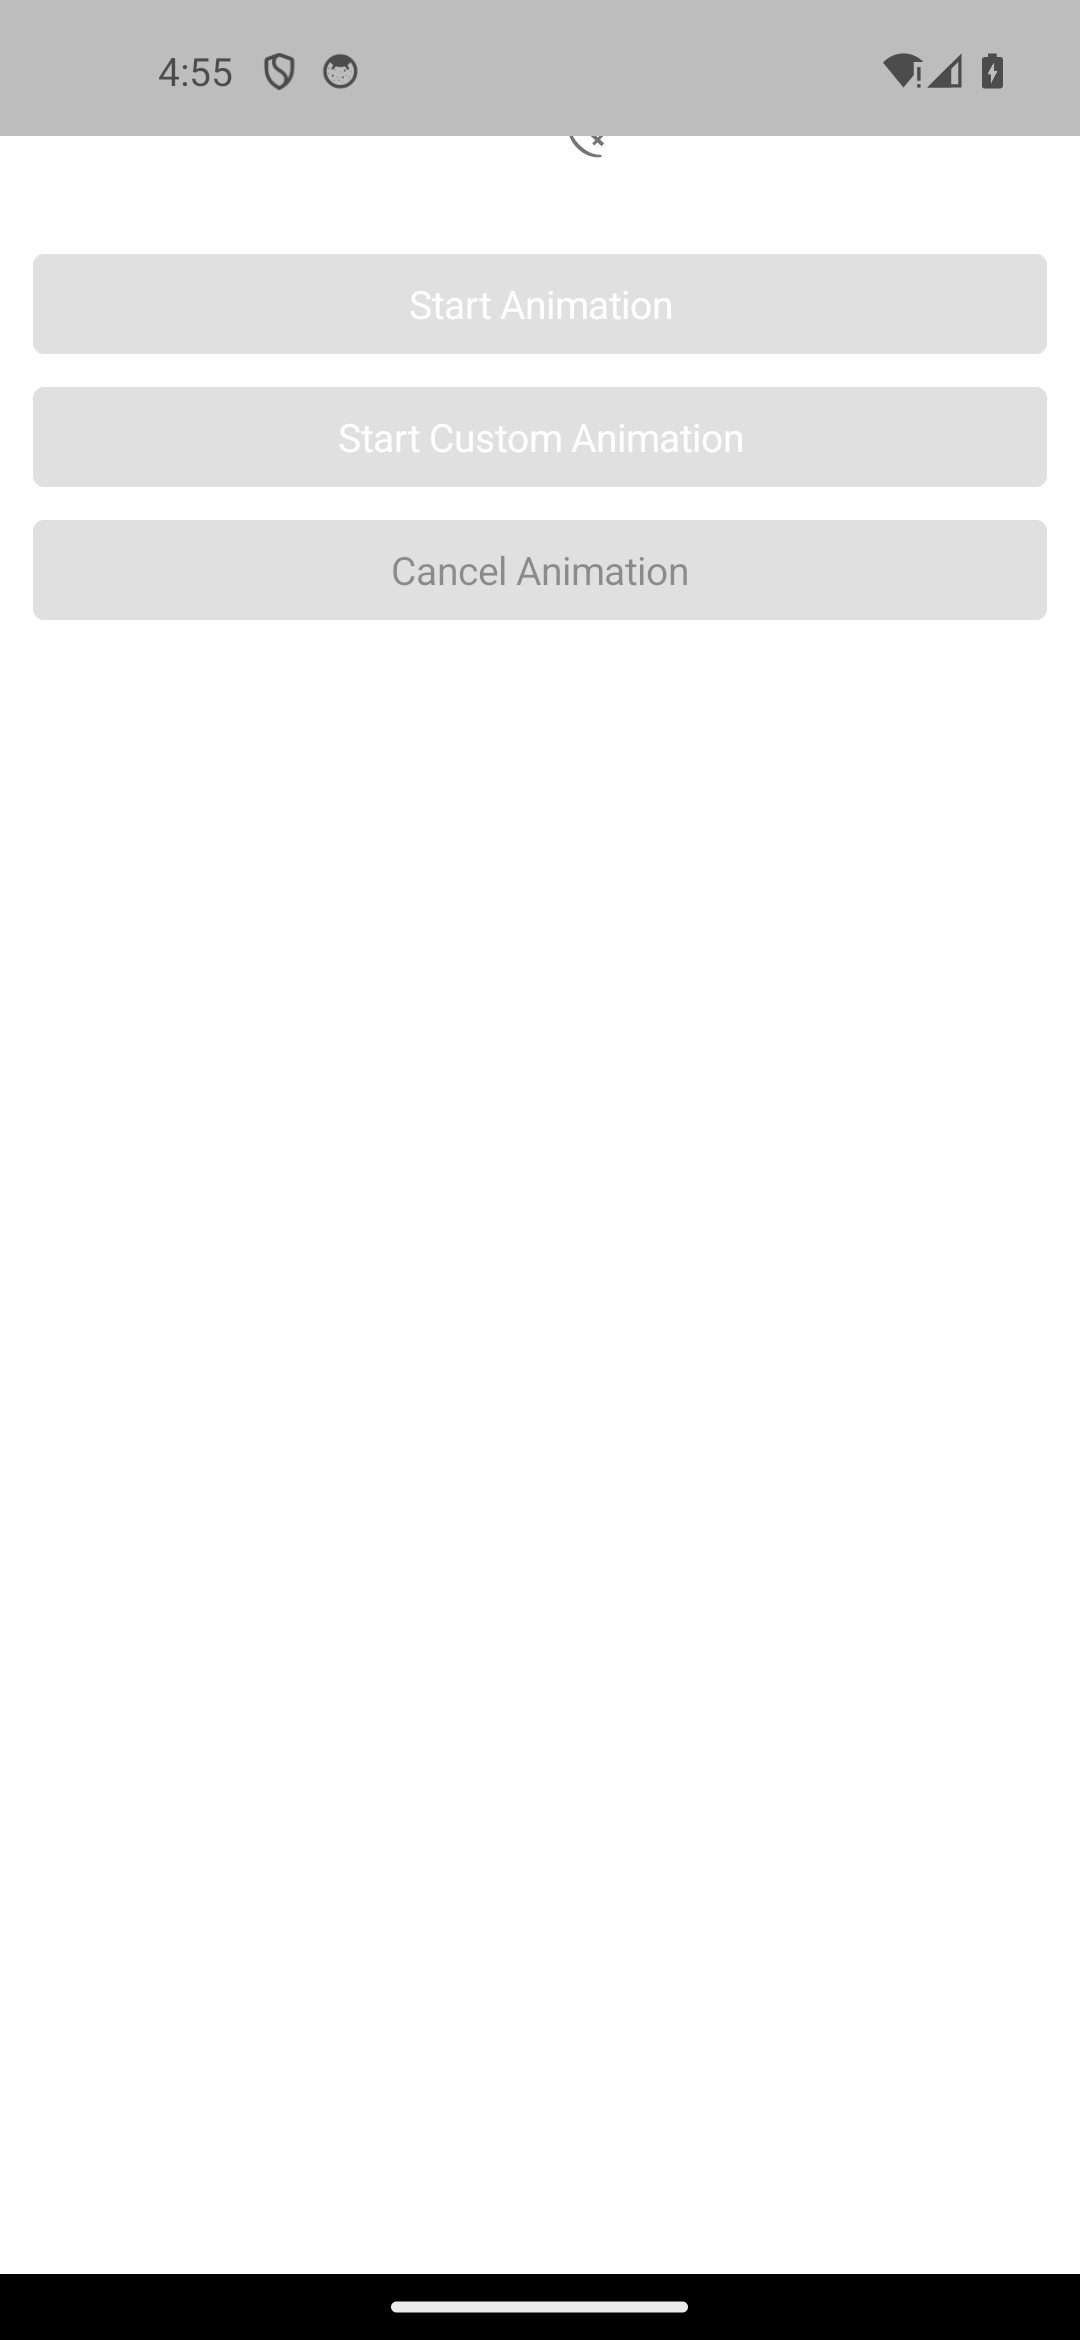
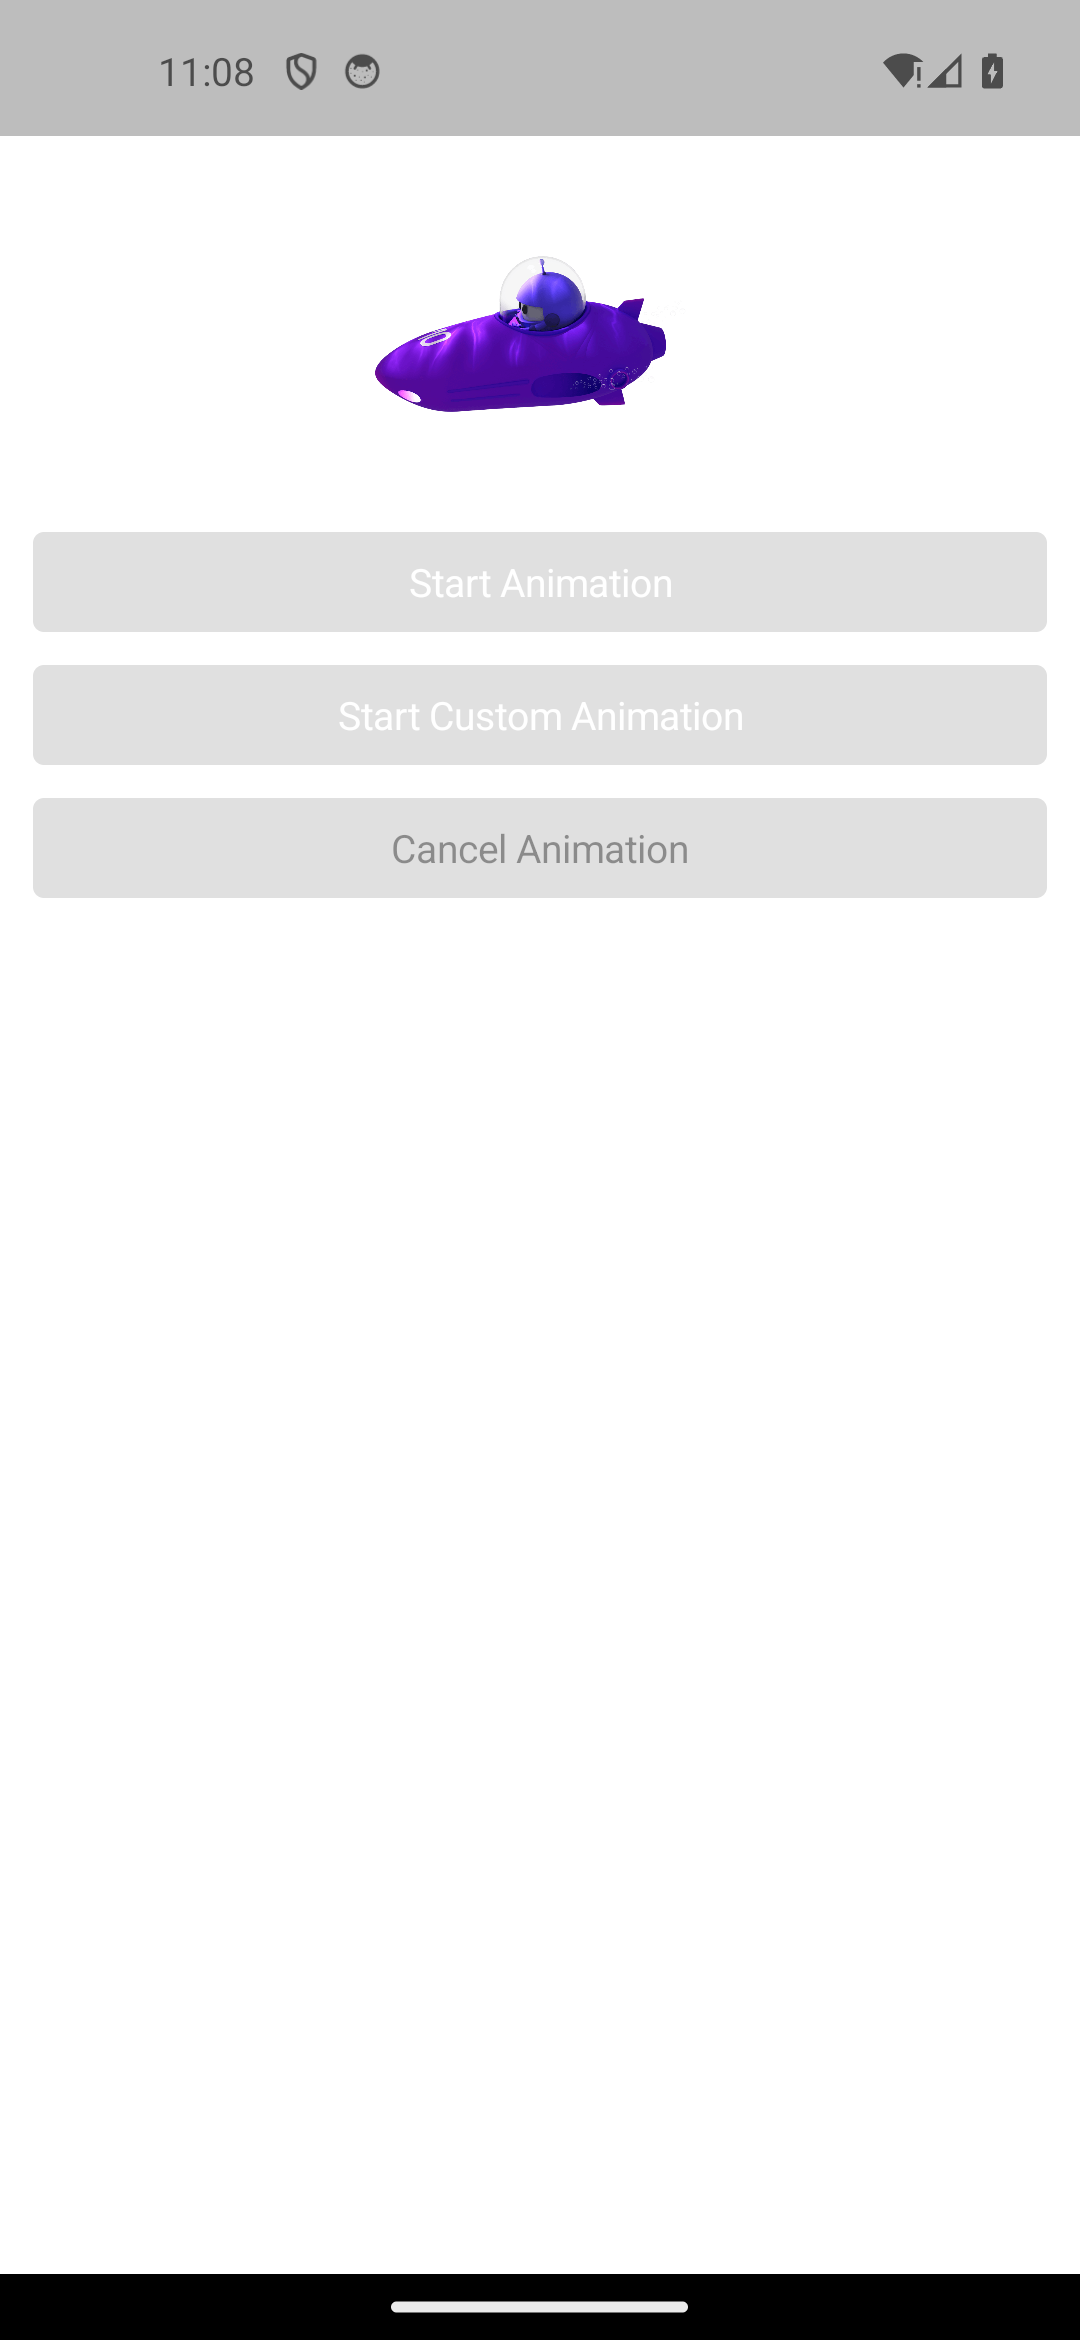
docs(parity): fix 3 android maui-ref divergences + recapture → 3 greens
The maui-compare REFERENCE app (fills android/maui/*.png) had diverged from real
.NET MAUI on 3 pages; the C++ port was already faithful. Fixed the reference,
rebuilt for net10.0-android, reinstalled, and recaptured only these 3:

  - clip_corner_radius: dotnet_bot.png(submarine) → oasis.jpg(pug dog), per
    ClipCornerRadiusGallery.xaml
  - scroll_mode_test: 3 mode buttons → EnumSelector = Label + Picker{WidthRequest=200}
    single value, per CollectionViewGalleries/EnumSelector.cs
  - animation: Label stand-in → <Image dotnet_bot.png> static at rest (no on-load
    animation kick), per AnimationPage.xaml

Recaptured PNGs READ-verified to match both real MAUI and the port's android/cpp
column. Board: android_render_review.json flips these 3 yellow→green (122 match /
31 minor / 18 major) and README re-spliced. maui-compare edits live in ~/maui-compare
(user's comparison app). Leaves the concurrent android/cpp recapture untouched.

Changed region(s): [[0.0306, 0.0936, 0.9778, 0.4056], [0.2444, 0.0, 0.3361, 0.0624], [0.1528, 0.0, 0.2139, 0.0312]]

diff --git a/port/cpp/docs/comparison/README.md b/port/cpp/docs/comparison/README.md
@@ -443,8 +443,8 @@ The C++ port's gallery pages rendered by the **Android app host** (a real Activi
 
 | Classification | Count | Meaning |
 | --- | --- | --- |
-| 🟢 Match | 119 | the port matches MAUI's content (colors/sizes/spacing/text) — pixel-perfect or effectively identical |
-| 🟡 Minor diff | 34 | small content differences that don't change the page's substance |
+| 🟢 Match | 122 | the port matches MAUI's content (colors/sizes/spacing/text) — pixel-perfect or effectively identical |
+| 🟡 Minor diff | 31 | small content differences that don't change the page's substance |
 | 🔴 Major diff | 19 | the port differs substantially from MAUI (missing controls/images/effects, wrong layout) |
 | ⬛ Port blank | 0 | the port's page is blank/crashed while MAUI shows content |
 
@@ -465,7 +465,7 @@ The per-row **Sonnet 5** column gives each page's MAUI-vs-C++ parity verdict + t
 | 3 | **Adaptive Collection** | <table><tr><td align="center">MAUI<br><img src="android/maui/adaptive_collection.png" height="360"></td><td align="center">C++<br><img src="android/cpp/adaptive_collection.png" height="360"></td><td align="center">C++&amp;XAML<br><img src="_placeholder.png" height="360"></td></tr></table> | ports AdaptiveCollectionView.xaml (+ .xaml.cs) (Maui.Controls.Sample.Pages.CollectionViewGalleries.AdaptiveCollectionView) | 🟢 renders — matches MAUI: item list layout, spacing, text all identical | _pending — Android vision review not run yet_ |
 | 4 | **Alerts** | <table><tr><td align="center">MAUI<br><img src="android/maui/alerts.png" height="360"></td><td align="center">C++<br><img src="android/cpp/alerts.png" height="360"></td><td align="center">C++&amp;XAML<br><img src="_placeholder.png" height="360"></td></tr></table> | ports AlertsPage.xaml (+ AlertsPage.xaml.cs) The C# AlertsPage drives the three Page dialog services — DisplayAlertAsync (simple OK + Yes/No), DisplayActionSheetAsync (simple + Cancel/Delete), and DisplayPromptAsync (two questions) — from a | 🟢 renders — matches MAUI: button list, spacing, text all identical | _pending — Android vision review not run yet_ |
 | 5 | **Alignment** | <table><tr><td align="center">MAUI<br><img src="android/maui/alignment.png" height="360"></td><td align="center">C++<br><img src="android/cpp/alignment.png" height="360"></td><td align="center">C++&amp;XAML<br><img src="android/xaml/alignment.png" height="360"></td></tr></table> | a faithful reproduction of the maui-compare &quot;alignment&quot; demo (ComparePages.Alignment()), the shipped-.NET-MAUI reference for the visual-parity comparison | 🟢 renders — matches MAUI: Start/Center/End/Fill button positions, colors, red outline all match | _pending — Android vision review not run yet_ |
-| 6 | **Animation** | <table><tr><td align="center">MAUI<br><img src="android/maui/animation.png" height="360"></td><td align="center">C++<br><img src="android/cpp/animation.png" height="360"></td><td align="center">C++&amp;XAML<br><img src="_placeholder.png" height="360"></td></tr></table> | ports AnimationPage.xaml (+ AnimationPage.xaml.cs) | 🟡 partial — PORT FIXED (ce534d5f80) — now renders the dotnet_bot Image target (faithful to real MAUI AnimationPage.xaml, was a Label stand-in). maui-compare reference still shows a Label; reference recapture pending. | _pending — Android vision review not run yet_ |
+| 6 | **Animation** | <table><tr><td align="center">MAUI<br><img src="android/maui/animation.png" height="360"></td><td align="center">C++<br><img src="android/cpp/animation.png" height="360"></td><td align="center">C++&amp;XAML<br><img src="_placeholder.png" height="360"></td></tr></table> | ports AnimationPage.xaml (+ AnimationPage.xaml.cs) | 🟢 renders — PORT MATCHES — both render the dotnet_bot Image target static at rest (faithful to real MAUI AnimationPage.xaml). maui-compare reference fixed (was a Label stand-in) + recaptured. | _pending — Android vision review not run yet_ |
 | 7 | **App Theme Binding** | <table><tr><td align="center">MAUI<br><img src="android/maui/app_theme_binding.png" height="360"></td><td align="center">C++<br><img src="android/cpp/app_theme_binding.png" height="360"></td><td align="center">C++&amp;XAML<br><img src="_placeholder.png" height="360"></td></tr></table> | ports AppThemeBindingPage.xaml | 🟢 renders — matches MAUI: green/orange text colors, button, theme status text all identical | _pending — Android vision review not run yet_ |
 | 8 | **Application Control** | <table><tr><td align="center">MAUI<br><img src="android/maui/application_control.png" height="360"></td><td align="center">C++<br><img src="android/cpp/application_control.png" height="360"></td><td align="center">C++&amp;XAML<br><img src="android/xaml/application_control.png" height="360"></td></tr></table> | ports ApplicationControlPage.xaml (+ .xaml.cs) | 🟡 partial — status text differs: cpp shows 'main window: MAUI C++ — gallery' vs MAUI's 'main window: (untitled)'; layout/buttons otherwise match | _pending — Android vision review not run yet_ |
 | 9 | **Auto Size Shapes** | <table><tr><td align="center">MAUI<br><img src="android/maui/auto_size_shapes.png" height="360"></td><td align="center">C++<br><img src="android/cpp/auto_size_shapes.png" height="360"></td><td align="center">C++&amp;XAML<br><img src="_placeholder.png" height="360"></td></tr></table> | ports AutoSizeShapesGallery.xaml A code-first port of the MAUI Shapes sub-gallery Pages/Controls/ShapesGalleries/AutoSizeShapesGallery.xaml: a 3-row Grid (RowSpacing 0) that proves a stroked Ellipse auto-sizes to fill exactly half of the av | 🟢 renders — matches MAUI: same yellow/orange split-screen background, same green ellipse with blue stroke sized to half the space, same header text | _pending — Android vision review not run yet_ |
@@ -486,7 +486,7 @@ The per-row **Sonnet 5** column gives each page's MAUI-vs-C++ parity verdict + t
 | 24 | **Check Box** | <table><tr><td align="center">MAUI<br><img src="android/maui/check_box.png" height="360"></td><td align="center">C++<br><img src="android/cpp/check_box.png" height="360"></td><td align="center">C++&amp;XAML<br><img src="android/xaml/check_box.png" height="360"></td></tr></table> | ports CheckBoxPage.xaml (+ .xaml.cs) Mirrors the MAUI gallery page: a vertical stack of headlined CheckBox states — Default, Colored (Color=Purple), Disabled, Disabled+Colored+Checked — followed by a &quot;Change IsChecked&quot; row pairing a Button | 🟢 renders — Matches MAUI; default checkbox is gray outline (fix confirmed, not navy); colored/disabled/disabled-colored/IsChecked states all match with explicit purple/red colors intact. | _pending — Android vision review not run yet_ |
 | 25 | **Chrome** | <table><tr><td align="center">MAUI<br><img src="android/maui/chrome.png" height="360"></td><td align="center">C++<br><img src="android/cpp/chrome.png" height="360"></td><td align="center">C++&amp;XAML<br><img src="_placeholder.png" height="360"></td></tr></table> | a self-contained demo page for the W1-11 window-chrome family: page toolbar items (primary + secondary), a menu bar (File menu with items, a separator and a sub-menu), a context flyout (right-click menu) on a button, and a tooltip — all wir | 🟢 renders — Matches MAUI: title bar, 'Press or right-click me' button, 'Ready' label all match in color/size/spacing. | _pending — Android vision review not run yet_ |
 | 26 | **Clip** | <table><tr><td align="center">MAUI<br><img src="android/maui/clip.png" height="360"></td><td align="center">C++<br><img src="android/cpp/clip.png" height="360"></td><td align="center">C++&amp;XAML<br><img src="_placeholder.png" height="360"></td></tr></table> | ports ClipPage.xaml The C# page (Pages/Core/ClipPage.xaml; its .xaml.cs is an empty InitializeComponent) is a ScrollView over a StackLayout that shows the SAME dotnet_bot.png image five times, each successive copy carrying a different geome | 🟢 renders — Matches MAUI: submarine image + RectangleGeometry/EllipseGeometry/GeometryGroup clip variants, same sizes/positions/labels. | _pending — Android vision review not run yet_ |
-| 27 | **Clip Corner Radius** | <table><tr><td align="center">MAUI<br><img src="android/maui/clip_corner_radius.png" height="360"></td><td align="center">C++<br><img src="android/cpp/clip_corner_radius.png" height="360"></td><td align="center">C++&amp;XAML<br><img src="_placeholder.png" height="360"></td></tr></table> | ports ClipCornerRadiusGallery.xaml (+ .xaml.cs) The C# page (Pages/Controls/ShapesGalleries/ClipCornerRadiusGallery.xaml) is a StackLayout (Padding=12) that demonstrates DRIVING a RoundRectangleGeometry&#x27;s per-corner CornerRadius from four s | 🟡 partial — PORT CORRECT — faithful to real MAUI (Source=oasis.jpg=pug dog). Board diff is a maui-compare REFERENCE artifact (it uses dotnet_bot.png=submarine); reference-fix+recapture pending, not a port bug. | _pending — Android vision review not run yet_ |
+| 27 | **Clip Corner Radius** | <table><tr><td align="center">MAUI<br><img src="android/maui/clip_corner_radius.png" height="360"></td><td align="center">C++<br><img src="android/cpp/clip_corner_radius.png" height="360"></td><td align="center">C++&amp;XAML<br><img src="_placeholder.png" height="360"></td></tr></table> | ports ClipCornerRadiusGallery.xaml (+ .xaml.cs) The C# page (Pages/Controls/ShapesGalleries/ClipCornerRadiusGallery.xaml) is a StackLayout (Padding=12) that demonstrates DRIVING a RoundRectangleGeometry&#x27;s per-corner CornerRadius from four s | 🟢 renders — PORT MATCHES — both show the oasis.jpg pug dog clipped by RoundRectangleGeometry (faithful to real MAUI ClipCornerRadiusGallery.xaml). maui-compare reference fixed (was dotnet_bot.png submarine) + recaptured. | _pending — Android vision review not run yet_ |
 | 28 | **Clip Gallery** | <table><tr><td align="center">MAUI<br><img src="android/maui/clip_gallery.png" height="360"></td><td align="center">C++<br><img src="android/cpp/clip_gallery.png" height="360"></td><td align="center">C++&amp;XAML<br><img src="_placeholder.png" height="360"></td></tr></table> | ports ClipGallery.xaml The C# page (Pages/Controls/ShapesGalleries/ClipGallery.xaml; its .xaml.cs is an empty InitializeComponent) is a ScrollView over a StackLayout (Padding=12) that shows the SAME &quot;oasis.jpg&quot; image SEVEN times — one bare | 🟢 renders — Matches MAUI: same pug dog photo repeated across Image/RectangleGeometry/RoundRectangleGeometry sections with matching sizes and labels. | _pending — Android vision review not run yet_ |
 | 29 | **Clip Views** | <table><tr><td align="center">MAUI<br><img src="android/maui/clip_views.png" height="360"></td><td align="center">C++<br><img src="android/cpp/clip_views.png" height="360"></td><td align="center">C++&amp;XAML<br><img src="_placeholder.png" height="360"></td></tr></table> | ports ClipViewsGallery.xaml The C# page (Pages/Controls/ShapesGalleries/ClipViewsGallery.xaml; no code-behind beyond an empty InitializeComponent) is a ScrollView over a StackLayout (Padding=12) that proves the Clip surface (VisualElement.C | 🟡 partial — Clip shape and controls match MAUI, but cpp's Entry/Editor/DatePicker/SearchBar/TimePicker fields lack the Material underline decoration MAUI shows. | _pending — Android vision review not run yet_ |
 | 30 | **Clipping** | <table><tr><td align="center">MAUI<br><img src="android/maui/clipping.png" height="360"></td><td align="center">C++<br><img src="android/cpp/clipping.png" height="360"></td><td align="center">C++&amp;XAML<br><img src="_placeholder.png" height="360"></td></tr></table> | compare oracle ~/maui-compare/Pages/ClippingPage.cs (itself written to mirror this gallery page) | 🔴 wrong — Row content differs: MAUI shows 8 numbered boxes (1-8, narrower boxes, 6/7/8 clipped) while cpp shows only ~5 wider boxes (1-4 partial) — different box count/sizing/layout. | _pending — Android vision review not run yet_ |
@@ -592,7 +592,7 @@ The per-row **Sonnet 5** column gives each page's MAUI-vs-C++ parity verdict + t
 | 130 | **Refresh View** | <table><tr><td align="center">MAUI<br><img src="android/maui/refresh_view.png" height="360"></td><td align="center">C++<br><img src="android/cpp/refresh_view.png" height="360"></td><td align="center">C++&amp;XAML<br><img src="_placeholder.png" height="360"></td></tr></table> | ports RefreshViewPage.xaml (+ RefreshViewPage.xaml.cs + RefreshViewModel.cs) A self-contained, code-first demo page for the RefreshView control (the C# gallery-page convention, mirroring the swipe_refresh_page pattern) | 🟢 renders — matches MAUI: same labels, button layout/colors, status text, item count | _pending — Android vision review not run yet_ |
 | 131 | **Relative Layout** | <table><tr><td align="center">MAUI<br><img src="android/maui/relative_layout.png" height="360"></td><td align="center">C++<br><img src="android/cpp/relative_layout.png" height="360"></td><td align="center">C++&amp;XAML<br><img src="android/xaml/relative_layout.png" height="360"></td></tr></table> | ports RelativeLayoutPage.xaml | 🟢 renders — matches MAUI: same 4 corner color blocks and centered gray box with black inner rect, same sizes/positions | _pending — Android vision review not run yet_ |
 | 132 | **Scattered Radio Button** | <table><tr><td align="center">MAUI<br><img src="android/maui/scattered_radio_button.png" height="360"></td><td align="center">C++<br><img src="android/cpp/scattered_radio_button.png" height="360"></td><td align="center">C++&amp;XAML<br><img src="android/xaml/scattered_radio_button.png" height="360"></td></tr></table> | ports ScatteredRadioButtonGallery.xaml A code-first demo that radio buttons DON&#x27;T have to share a container to be grouped: grouping is by GroupName, so buttons scattered across separate containers (and one bare button outside any grouped co | 🟡 partial — Radio dots correctly gray, matches MAUI content. Minor: light-blue highlight band behind A/B/C row is narrower/shorter than MAUI's wider band. | _pending — Android vision review not run yet_ |
-| 133 | **Scroll Mode Test** | <table><tr><td align="center">MAUI<br><img src="android/maui/scroll_mode_test.png" height="360"></td><td align="center">C++<br><img src="android/cpp/scroll_mode_test.png" height="360"></td><td align="center">C++&amp;XAML<br><img src="_placeholder.png" height="360"></td></tr></table> | ports ScrollModeTestGallery.xaml (+ .xaml.cs) of the C# CollectionView gallery (Maui.Controls.Sample.Pages.CollectionViewGalleries.ScrollModeGalleries.ScrollModeTestGallery) | 🟡 partial — PORT CORRECT — faithful to real MAUI EnumSelector (Label+Picker, WidthRequest=200). Board diff is a maui-compare REFERENCE artifact (3 buttons); reference-fix+recapture pending. | _pending — Android vision review not run yet_ |
+| 133 | **Scroll Mode Test** | <table><tr><td align="center">MAUI<br><img src="android/maui/scroll_mode_test.png" height="360"></td><td align="center">C++<br><img src="android/cpp/scroll_mode_test.png" height="360"></td><td align="center">C++&amp;XAML<br><img src="_placeholder.png" height="360"></td></tr></table> | ports ScrollModeTestGallery.xaml (+ .xaml.cs) of the C# CollectionView gallery (Maui.Controls.Sample.Pages.CollectionViewGalleries.ScrollModeGalleries.ScrollModeTestGallery) | 🟢 renders — PORT MATCHES — both show the EnumSelector (Label + single-value Picker, WidthRequest=200) selecting KeepItemsInView (faithful to real MAUI EnumSelector<T>). maui-compare reference fixed (was 3 buttons) + recaptured. | _pending — Android vision review not run yet_ |
 | 134 | **Scroll To Group** | <table><tr><td align="center">MAUI<br><img src="android/maui/scroll_to_group.png" height="360"></td><td align="center">C++<br><img src="android/cpp/scroll_to_group.png" height="360"></td><td align="center">C++&amp;XAML<br><img src="_placeholder.png" height="360"></td></tr></table> | ports ScrollToGalleries/ScrollToGroup.xaml (+ .xaml.cs) of the C# CollectionView gallery | 🟢 renders — matches MAUI: same form fields, Go buttons, colored group/member list content and styling | _pending — Android vision review not run yet_ |
 | 135 | **Scroll View** | <table><tr><td align="center">MAUI<br><img src="android/maui/scroll_view.png" height="360"></td><td align="center">C++<br><img src="android/cpp/scroll_view.png" height="360"></td><td align="center">C++&amp;XAML<br><img src="android/xaml/scroll_view.png" height="360"></td></tr></table> | ports ScrollViewPage.xaml (+ the ScrollViewPages sub-demos: ScrollViewOrientationPage / ScrollToEndPage / ScrollToFromConstructorPage), code-first | 🟢 renders — matches MAUI: same row list content/style; visible rows differ only due to scroll position (runtime state, ignored) | _pending — Android vision review not run yet_ |
 | 136 | **Search Bar** | <table><tr><td align="center">MAUI<br><img src="android/maui/search_bar.png" height="360"></td><td align="center">C++<br><img src="android/cpp/search_bar.png" height="360"></td><td align="center">C++&amp;XAML<br><img src="android/xaml/search_bar.png" height="360"></td></tr></table> | ports SearchBarPage.xaml (Microsoft.Maui.Controls sample gallery) | 🟡 partial — clear 'X' and cancel-red 'X' icons render as thin gray hairline glyphs in port vs MAUI's bold thick black/red X glyphs; magnifier icon also thinner weight | _pending — Android vision review not run yet_ |
